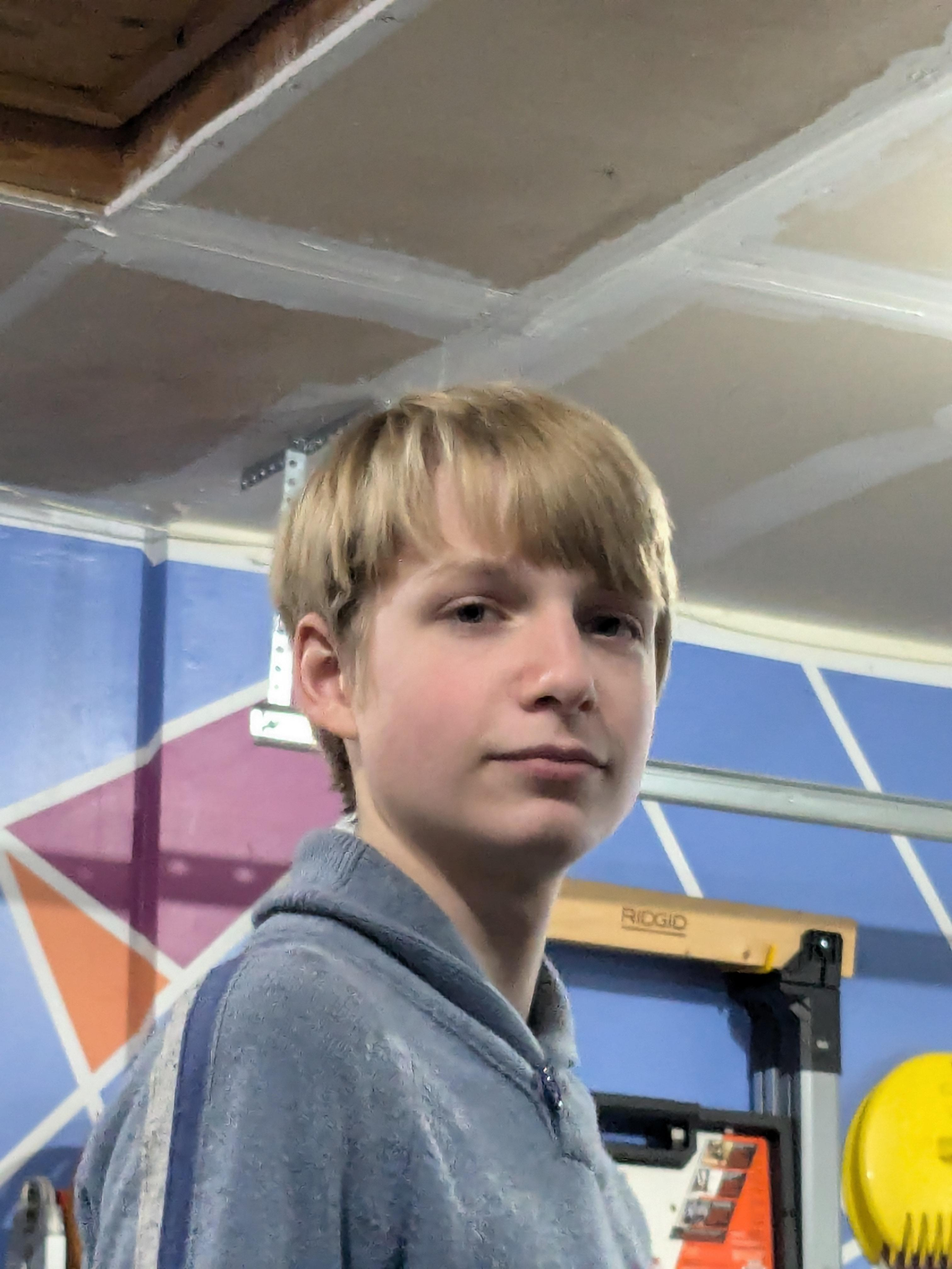
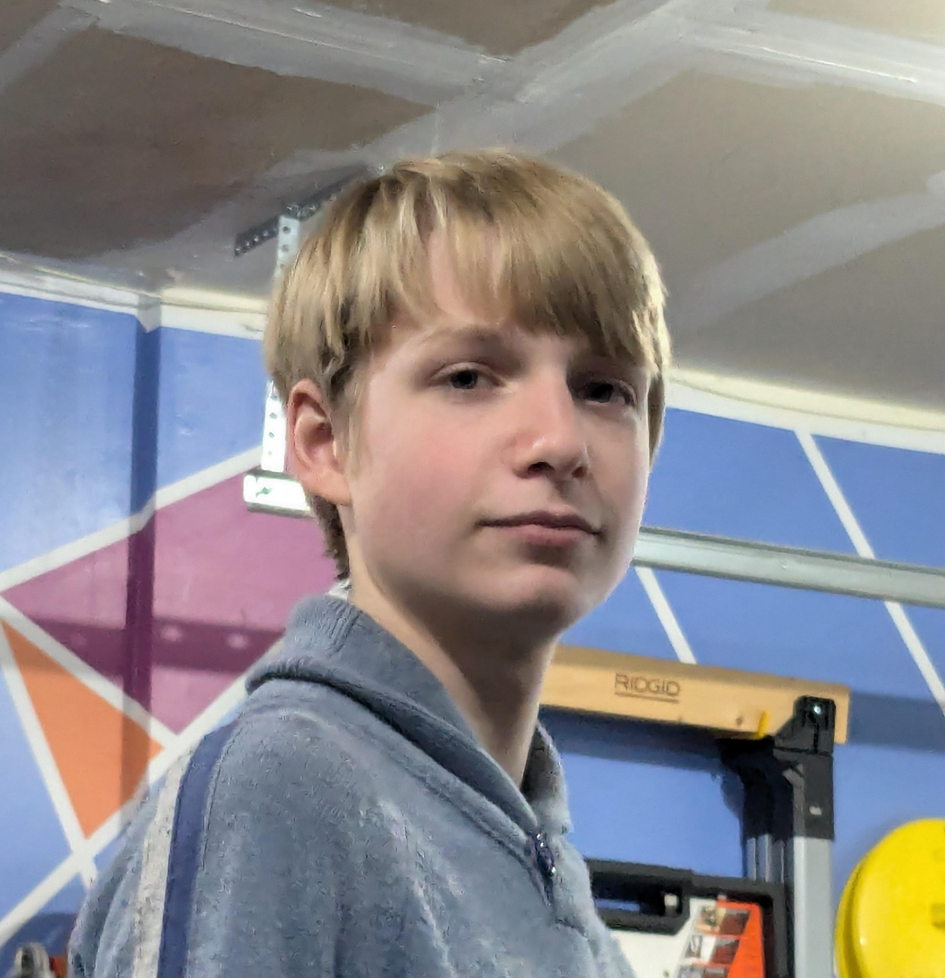
Added tymen's card

diff --git a/src/ftc/index.html b/src/ftc/index.html
@@ -91,6 +91,19 @@
 														</div>
 													</div>
 												</section>
+												<section class="col-6 col-6-medium col-12-xsmall">
+													<div class="card">
+														<img src="images/people/tyman.jpg" alt="Avatar" style="width:100%">
+														<div class="container">
+														<h4><b>Tymen Yoder</b></h4>
+														<p>Drive Team, Hardware Mechanic</p>
+														<p>October 2023 - June 2027</p>
+														<p><blockquote>“When I joined this team, I felt motivated to learn. I have learned many things, such as CAD and design. I even did a little coding once. I think FTC is an opportunity for anyone to learn and enjoy engineering.”
+														</blockquote>
+														</p>
+														</div>
+													</div>
+												</section>
 											</div>
 										</div>
 										</section>	
